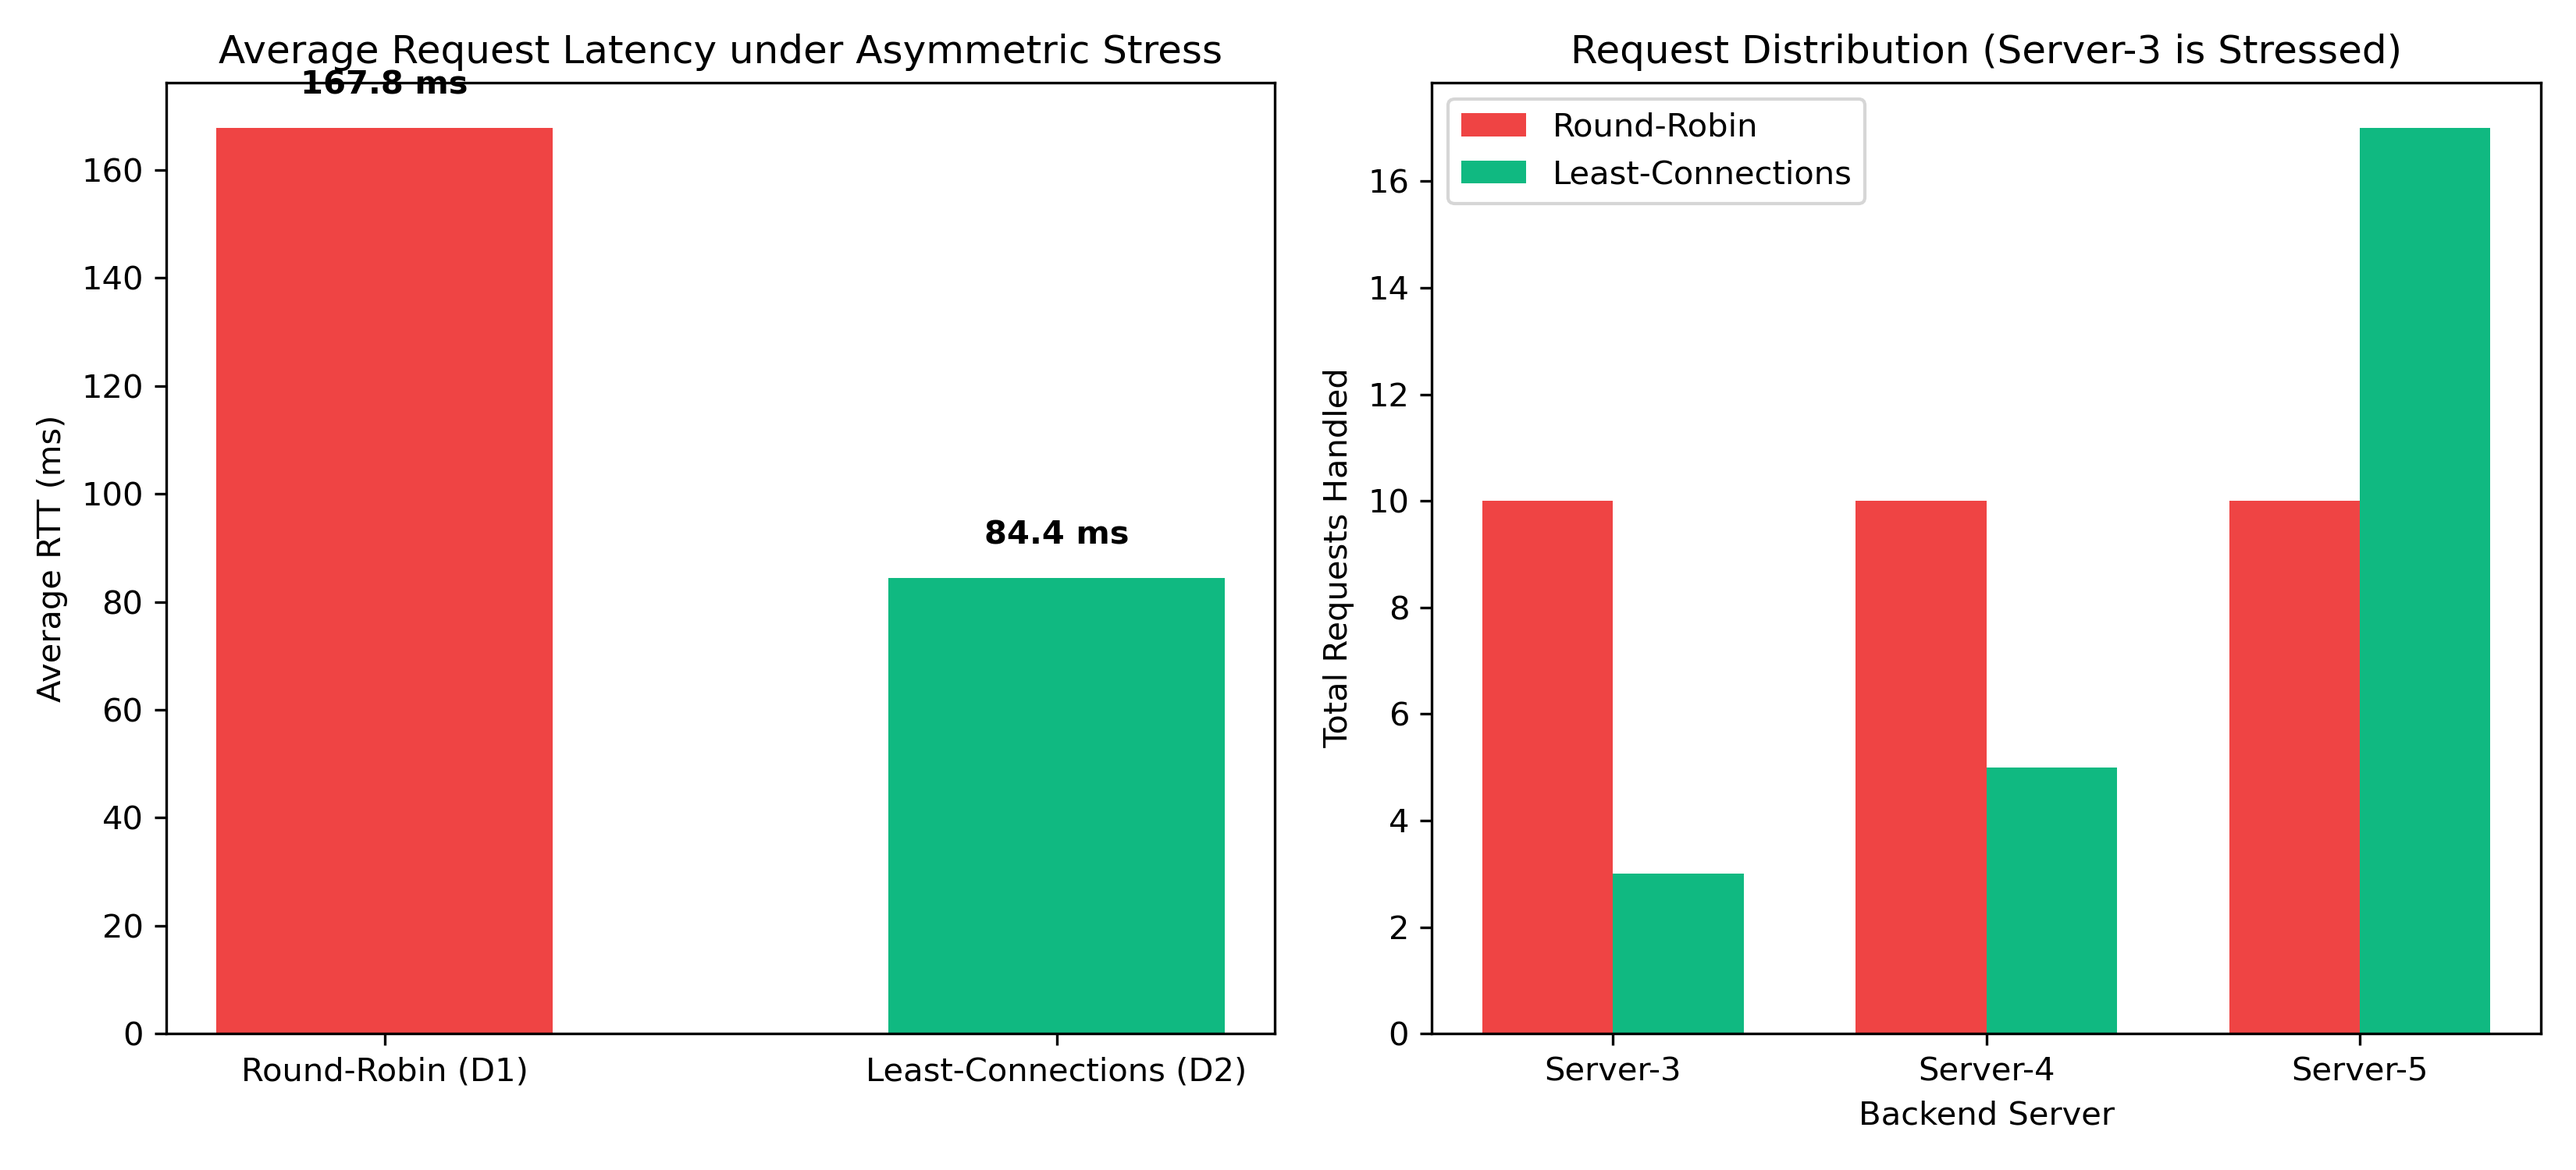
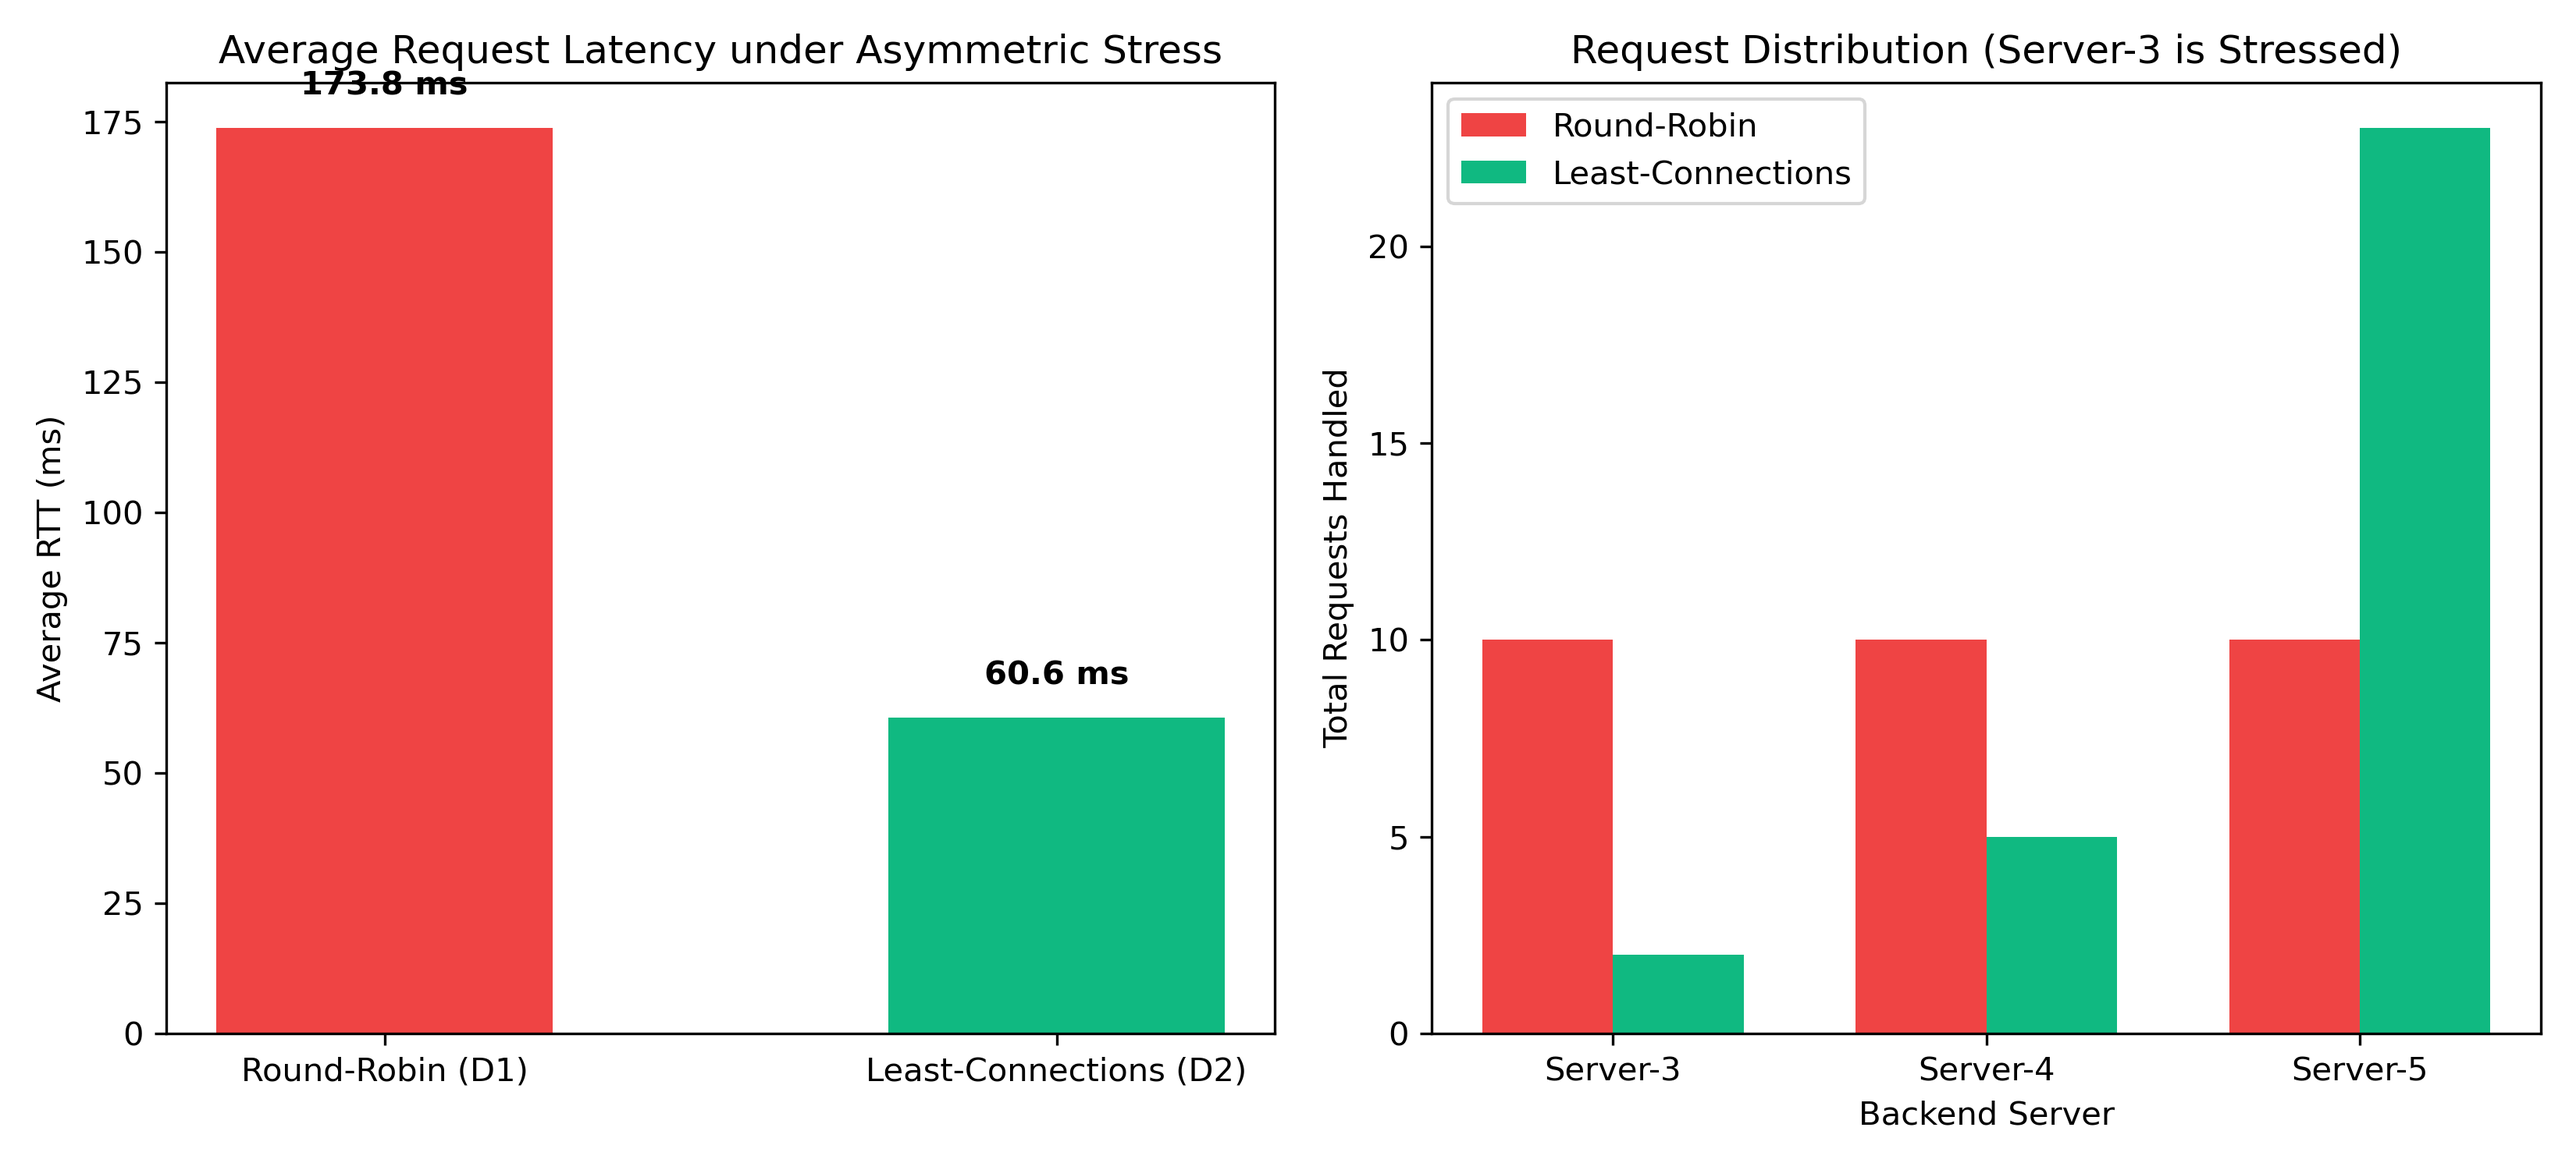
Update adaptive load balancer and final results

diff --git a/adaptive_lb.py b/adaptive_lb.py
@@ -3,7 +3,8 @@ import pox.openflow.libopenflow_01 as of
 from pox.lib.addresses import IPAddr, EthAddr
 import threading
 import time
-
+from pox.lib.recoco import Timer
+import json
 log = core.getLogger()
 
 class AdaptiveLeastConnectionsLB(object):
@@ -23,6 +24,9 @@ class AdaptiveLeastConnectionsLB(object):
             IPAddr("10.0.0.4"): 0,
             IPAddr("10.0.0.5"): 0
         }
+        self.port_bytes_previous = {}
+        self.port_rates_mbps = {}
+        self.stats_connection = None
 
     def _handle_ConnectionUp(self, event):
         log.info("Switch s1 connected. Installing baseline rules...")
@@ -48,16 +52,91 @@ class AdaptiveLeastConnectionsLB(object):
         msg_lb.match.nw_dst = IPAddr(self.VIP)
         msg_lb.actions.append(of.ofp_action_output(port=of.OFPP_CONTROLLER))
         event.connection.send(msg_lb)
+        self.stats_connection = event.connection
+        Timer(5, self._request_port_stats, recurring=True)
+    def _request_port_stats(self):
+        if self.stats_connection is None:
+            return
 
+        msg = of.ofp_stats_request()
+        msg.body = of.ofp_port_stats_request()
+        self.stats_connection.send(msg)
+
+    def _handle_PortStatsReceived(self, event):
+        now = time.time()
+
+        for stat in event.stats:
+            if stat.port_no not in (3, 4, 5):
+                continue
+
+            total_bytes = stat.rx_bytes + stat.tx_bytes
+            previous = self.port_bytes_previous.get(stat.port_no)
+
+            if previous is not None:
+                old_bytes, old_time = previous
+                elapsed = now - old_time
+
+                if elapsed > 0:
+                    rate = max(0, total_bytes - old_bytes) * 8 / elapsed / 1_000_000
+                    self.port_rates_mbps[stat.port_no] = rate
+                    log.info(
+                        "Network load - port %s: %.4f Mbps",
+                        stat.port_no, rate
+                    )
+
+            self.port_bytes_previous[stat.port_no] = (total_bytes, now)
     def _release_connection(self, server_ip, duration):
         time.sleep(duration)
         if self.active_conns[server_ip] > 0:
             self.active_conns[server_ip] -= 1
 
     def _select_least_loaded_server(self):
-        # Pick server with smallest active connection count; prioritize faster servers on tie
-        server_order = [self.servers[2], self.servers[1], self.servers[0]] # 5, 4, 3
-        return min(server_order, key=lambda s: self.active_conns[IPAddr(s['ip'])])
+        status_file = "/home/neha/sdn_load_balancer/server_status.json"
+
+        try:
+            with open(status_file, "r") as file:
+                health = json.load(file)
+        except (OSError, ValueError):
+            log.warning("Health status unavailable; using all servers")
+            health = {s["ip"]: True for s in self.servers}
+
+        healthy_servers = [
+            s for s in self.servers
+            if health.get(s["ip"], False)
+        ]
+        OVERLOAD_THRESHOLD = 2
+
+        available_servers = [
+            s for s in healthy_servers
+            if self.active_conns[IPAddr(s["ip"])] < OVERLOAD_THRESHOLD
+        ]
+
+        overloaded_servers = [
+            s for s in healthy_servers
+            if self.active_conns[IPAddr(s["ip"])] >= OVERLOAD_THRESHOLD
+        ]
+
+        for s in overloaded_servers:
+            log.warning(
+                "Server %s is OVERLOADED: estimated active connections = %s",
+                s["ip"], self.active_conns[IPAddr(s["ip"])]
+            )
+
+        if available_servers:
+            healthy_servers = available_servers
+
+        if not healthy_servers:
+            log.error("No healthy backend servers available!")
+            return None
+
+        return min(
+            healthy_servers,
+            key=lambda s: (
+                self.active_conns[IPAddr(s["ip"])],
+                self.port_rates_mbps.get(s["port"], 0.0)
+            )
+
+        )
 
     def _handle_PacketIn(self, event):
         packet = event.parsed
@@ -69,6 +148,10 @@ class AdaptiveLeastConnectionsLB(object):
 
         if ip_pkt and tcp_pkt and str(ip_pkt.dstip) == self.VIP:
             server = self._select_least_loaded_server()
+            if server is None:
+                log.error("Request dropped: no healthy servers available")
+                return
+            log.info("VIP request: selecting server %s", server['ip'])
             server_ip = IPAddr(server['ip'])
 
             self.active_conns[server_ip] += 1
@@ -83,7 +166,7 @@ class AdaptiveLeastConnectionsLB(object):
             # Reverse Rule (Server -> Client)
             rule_rev = of.ofp_flow_mod()
             rule_rev.priority = 100
-            rule_rev.idle_timeout = 1
+            rule_rev.idle_timeout = 30
             rule_rev.match.dl_type = 0x0800
             rule_rev.match.nw_proto = 6
             rule_rev.match.nw_src = server_ip
@@ -99,7 +182,7 @@ class AdaptiveLeastConnectionsLB(object):
             # Forward Rule (Client -> Server)
             rule_fwd = of.ofp_flow_mod()
             rule_fwd.priority = 100
-            rule_fwd.idle_timeout = 1
+            rule_fwd.idle_timeout = 30
             rule_fwd.match.dl_type = 0x0800
             rule_fwd.match.nw_proto = 6
             rule_fwd.match.nw_src = ip_pkt.srcip
@@ -110,6 +193,7 @@ class AdaptiveLeastConnectionsLB(object):
             rule_fwd.actions.append(of.ofp_action_nw_addr.set_dst(server_ip))
             rule_fwd.actions.append(of.ofp_action_output(port=server['port']))
             event.connection.send(rule_fwd)
+            log.info("Installed forward and reverse rules for server %s", server['ip'])
 
             pkt_out = of.ofp_packet_out()
             if event.ofp.buffer_id != of.NO_BUFFER:

diff --git a/server.py b/server.py
@@ -1,86 +1,64 @@
+
 #!/usr/bin/env python3
 import socket
 import threading
 import sys
 import time
 
+
 def handle_client(conn, addr, server_id, delay):
     try:
-        data = conn.recv(1024).decode('utf-8')
+        data = conn.recv(1024).decode("utf-8")
         if data:
-            # Simulate asymmetric processing workload
             if delay > 0:
                 time.sleep(delay)
-            response = f"[REPLY FROM {server_id}] Processed: '{data.strip()}' (delay: {delay}s)\n"
-            conn.sendall(response.encode('utf-8'))
+
+            response = (
+                f"[REPLY FROM {server_id}] "
+                f"Processed: '{data.strip()}' "
+                f"(delay: {delay}s)\n"
+            )
+            conn.sendall(response.encode("utf-8"))
     except Exception as e:
         print(f"[{server_id}] Connection error: {e}")
     finally:
         conn.close()
+
 
 def start_server(host, port, server_id, delay):
     sock = socket.socket(socket.AF_INET, socket.SOCK_STREAM)
     sock.setsockopt(socket.SOL_SOCKET, socket.SO_REUSEADDR, 1)
     sock.bind((host, port))
     sock.listen(128)
-    print(f"[{server_id}] TCP Server listening on {host}:{port} with synthetic delay {delay}s...")
+
+    print(
+        f"[{server_id}] TCP Server listening on "
+        f"{host}:{port} with synthetic delay {delay}s...",
+        flush=True,
+    )
 
     try:
         while True:
             conn, addr = sock.accept()
-            threading.Thread(target=handle_client, args=(conn, addr, server_id, delay), daemon=True).start()
+            threading.Thread(
+                target=handle_client,
+                args=(conn, addr, server_id, delay),
+                daemon=True,
+            ).start()
     except KeyboardInterrupt:
         print(f"\n[{server_id}] Server halted.")
     finally:
         sock.close()
 
-if __name__ == '__main__':
+
+if __name__ == "__main__":
+    if len(sys.argv) < 3:
+        print("Usage: python3 server.py IP PORT [SERVER_NAME] [DELAY]")
+        sys.exit(1)
+
     ip = sys.argv[1]
     port = int(sys.argv[2])
     name = sys.argv[3] if len(sys.argv) > 3 else f"Server-{ip}"
     delay = float(sys.argv[4]) if len(sys.argv) > 4 else 0.05
+
     start_server(ip, port, name, delay)
-#!/usr/bin/env python3
-import socket
-import threading
-import sys
-import time
-
-def handle_client(conn, addr, server_id):
-    try:
-        data = conn.recv(1024).decode('utf-8')
-        if data:
-            time.sleep(0.05)
-            response = f"[REPLY FROM {server_id}] Processed: '{data.strip()}'\n"
-            conn.sendall(response.encode('utf-8'))
-    except Exception as e:
-        print(f"[{server_id}] Connection error: {e}")
-    finally:
-        conn.close()
-
-def start_server(host, port, server_id):
-    sock = socket.socket(socket.AF_INET, socket.SOCK_STREAM)
-    sock.setsockopt(socket.SOL_SOCKET, socket.SO_REUSEADDR, 1)
-    sock.bind((host, port))
-    sock.listen(128)
-    print(f"[{server_id}] TCP Server listening on {host}:{port}...")
-
-    try:
-        while True:
-            conn, addr = sock.accept()
-            t = threading.Thread(target=handle_client, args=(conn, addr, server_id), daemon=True)
-            t.start()
-    except KeyboardInterrupt:
-        print(f"\n[{server_id}] Stopped.")
-    finally:
-        sock.close()
-
-if __name__ == '__main__':
-    if len(sys.argv) < 3:
-        print("Usage: python3 server.py <IP> <PORT> [SERVER_NAME]")
-        sys.exit(1)
-    
-    ip = sys.argv[1]
-    port = int(sys.argv[2])
-    name = sys.argv[3] if len(sys.argv) > 3 else f"Server-{ip}"
-    start_server(ip, port, name)

diff --git a/health_monitor.py b/health_monitor.py
@@ -1,0 +1,45 @@
+#!/usr/bin/env python3
+import json
+import os
+import socket
+import time
+
+SERVERS = {
+    "10.0.0.3": 8000,
+    "10.0.0.4": 8000,
+    "10.0.0.5": 8000,
+}
+
+STATUS_FILE = "/home/neha/sdn_load_balancer/server_status.json"
+CHECK_INTERVAL = 3
+
+def check_server(ip, port):
+    try:
+        with socket.create_connection((ip, port), timeout=1):
+            return True
+    except OSError:
+        return False
+
+if __name__ == "__main__":
+    print("Server health monitor started.", flush=True)
+
+    try:
+        while True:
+            statuses = {}
+
+            for ip, port in SERVERS.items():
+                up = check_server(ip, port)
+                statuses[ip] = up
+                print(f"Server {ip}:{port} - {'UP' if up else 'DOWN'}", flush=True)
+
+            temporary_file = STATUS_FILE + ".tmp"
+            with open(temporary_file, "w") as file:
+                json.dump(statuses, file)
+            os.replace(temporary_file, STATUS_FILE)
+
+            print(f"Health status saved to {STATUS_FILE}", flush=True)
+            print("-" * 35, flush=True)
+            time.sleep(CHECK_INTERVAL)
+
+    except KeyboardInterrupt:
+        print("\nHealth monitor stopped.", flush=True)
